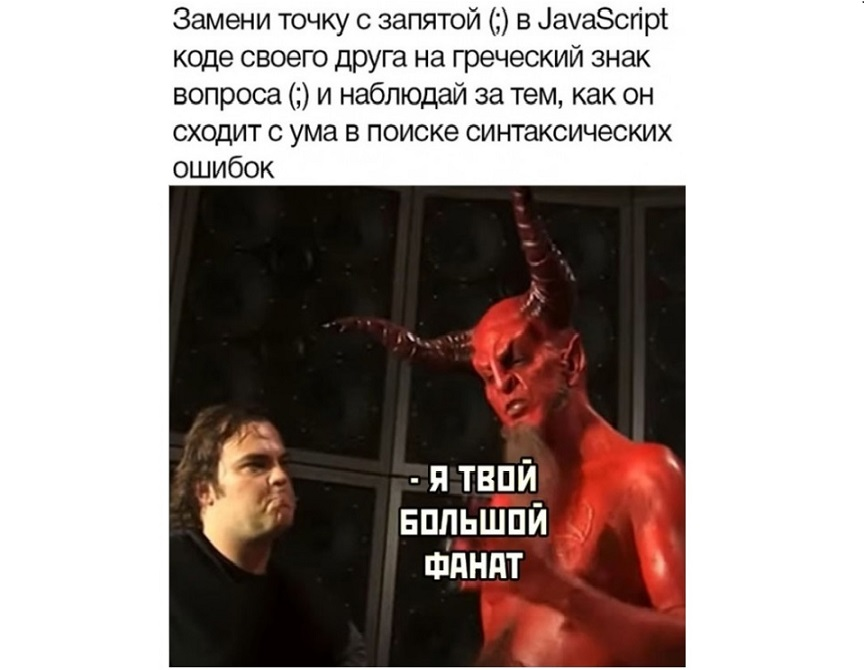
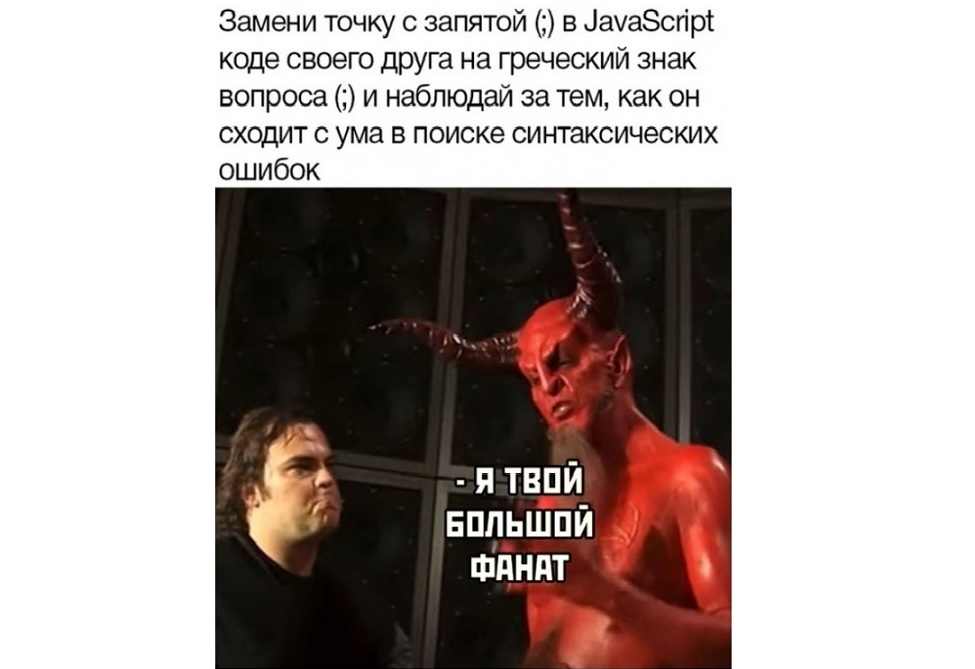
fix: add gap between texts for images  (Fri, Sep 08, 2023 8:16:39 PM)

Changed region(s): [[0.1875, 0.0, 0.8125, 1.0], [0.375, 0.4783, 0.4062, 0.5082]]

diff --git a/cssMemeSlider/style.css b/cssMemeSlider/style.css
@@ -13,7 +13,8 @@ body {
     max-height: 100vh;
     margin: 0 auto;
     background-color: black;
-    padding: 1rem 2rem;
+    padding: 1.5rem;
+    font-family: Arial, sans-serif;
 }
 
 header {
@@ -27,7 +28,7 @@ h1 {
 }
 
 .slider__inner {
-    width: 90%;
+    width: 100%;
     margin: 0 auto;
     display: flex;
     flex-direction: column;
@@ -39,18 +40,13 @@ h1 {
 }
 
 .slider__cirkle {
-    /* width: 1.7vmin;
-    height: 1.7vmin;
-    border-radius: 50%; */
     cursor: pointer;
-    /* border: 0.125rem solid rgb(71, 130, 219);
-    background-color: rgb(71, 130, 219); */
-    padding: 5px;
+    padding: 0.3125rem;
 }
 
 .dot {
-    width: 1.7vmin;
-    height: 1.7vmin;
+    width: 1rem;
+    height: 1rem;
     border-radius: 50%;
     border: 0.125rem solid rgb(71, 130, 219);
     background-color: rgb(71, 130, 219);
@@ -74,6 +70,7 @@ h1 {
 
 .slider  ul li {
     display: flex;
+    width: 100%;
 }
 
 .slider__image {
@@ -81,8 +78,8 @@ h1 {
 }
 
 .slider__text {
-    width: 91%;
-    overflow-x: hidden;
+    width: 75%;
+    overflow: hidden;
 }
 
 .slider__text ul {
@@ -90,15 +87,19 @@ h1 {
     display: flex;
     margin: 0;
     padding: 0;
-    width: 400%;
+    width: calc(400% + 1.875rem);
+    column-gap: 0.625rem;
 }
 
 .slider__text ul li {
     width: 100%;
+    display: block;
 }
 
 span {
     color: white;
+    white-space: nowrap;
+    display: inline-block;
 }
 
 #slide1:checked ~ .slider__footer .slider__pagination label[for=slide1] .dot {
@@ -140,7 +141,7 @@ span {
 }
 
 #slide2:checked ~ .slider__footer .slider__text > ul {
-    transform: translateX(-25%);
+    transform: translateX(-25%) translateX(-0.2rem);
 }
 
 #slide2:checked ~ .slider__footer .slider__text > ul > .text2 {
@@ -153,7 +154,7 @@ span {
 }
 
 #slide3:checked ~ .slider__footer .slider__text > ul {
-    transform: translateX(-50%);
+    transform: translateX(-50%) translateX(-0.28rem);
 }
 
 #slide3:checked ~ .slider__footer .slider__text > ul > .text3 {
@@ -166,7 +167,7 @@ span {
 }
 
 #slide4:checked ~ .slider__footer .slider__text > ul {
-    transform: translateX(-75%);
+    transform: translateX(-75%) translateX(-0.4rem);;
 }
 
 #slide4:checked ~ .slider__footer .slider__text > ul > .text4 {
@@ -177,10 +178,13 @@ span {
     display: flex;
     flex-direction: row;
     justify-content: space-between;
+    align-items: center;
 }
 
 .slider__pagination {
+    width: 25%;
     display: flex;
+    justify-content: flex-end;
 }
 
 /* =====media===== */
@@ -193,21 +197,40 @@ span {
     }
 }
 
+@media (max-width: 44rem) {
+    header {
+        padding: 0 1rem;
+    }
+
+    .slider__footer {
+        flex-direction: column-reverse;
+        row-gap: 1rem;
+        justify-content: center;
+    }
+
+    .slider__text {
+        width: 100%;
+    }
+
+    span {
+        /* font-size: 0.75rem; */
+        white-space: normal;
+    }
+
+    .slider__pagination {
+        width: 100%;
+        justify-content: center;
+    }
+}
+
+/* ===== keyframes ===== */
+
 @keyframes fadein {
     from {
         opacity: 0;
     }
     to {
         opacity: 1;
-    }
-}
-
-@keyframes fadeout {
-    from {
-        opacity: 1;
-    }
-    to {
-        opacity: 0;
     }
 }
 

diff --git a/cssMemeSlider/index.html b/cssMemeSlider/index.html
@@ -48,7 +48,7 @@
                         </li>
                         <li class="text3">
                             <span>
-                                А ты нашел ошибку?
+                                 А ты нашел ошибку?
                             </span>
                         </li>
                         <li class="text4">
